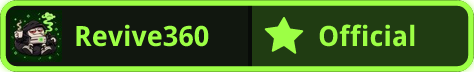
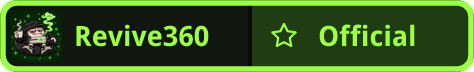
Make the Official star smaller and outlined

Changed region(s): [[0.5316, 0.25, 0.6498, 0.75]]

diff --git a/tests/test_catalog.py b/tests/test_catalog.py
@@ -193,6 +193,24 @@ class CatalogTests(unittest.TestCase):
                     a,b=sorted([luminance(foreground),luminance(panel.attrib['fill'])])
                     self.assertGreaterEqual((b+0.05)/(a+0.05),4.5)
 
+    def test_official_star_is_small_outlined_and_aligned_with_text_baseline(self):
+        svg=badge_svg(fixture('tube360'),TODAY)
+        ns={'s':'http://www.w3.org/2000/svg'}
+        tree=ElementTree.fromstring(svg)
+        star=tree.find('.//s:g[@data-icon="official"]/s:path',ns)
+        self.assertEqual(star.attrib['fill'],'none')
+        self.assertLessEqual(float(star.attrib['stroke-width']),1.25)
+        image=Image.open(io.BytesIO(png(svg))).convert('RGB')
+        # The center remains the panel color, rather than a solid neon mass.
+        self.assertEqual(image.getpixel((284,36)),(32,60,18))
+        points=[(x,y) for y in range(12,56) for x in range(264,304)
+                if (lambda color:color[0]>120 and color[1]>200 and color[2]<120)(image.getpixel((x,y)))]
+        self.assertTrue(points)
+        self.assertLessEqual(max(x for x,y in points)-min(x for x,y in points)+1,27)
+        self.assertLessEqual(max(y for x,y in points)-min(y for x,y in points)+1,26)
+        baseline=float(tree.findall('.//s:text',ns)[-1].attrib['y'])
+        self.assertLessEqual(abs(max(y for x,y in points)/2-baseline),1)
+
     def test_snippet_alts_follow_states_and_the_requested_snapshot_date(self):
         for slug,word in [('tube360','Official'),('sample-reviewed','Reviewed v1.2.3'),('sample-unreviewed','Outdated v1.2.3'),('sample-expired','Expired'),('sample-revoked','Revoked')]:
             self.assertIn(f'[![Revive360 {word}]',snippet(fixture(slug),as_of=TODAY))

diff --git a/catalog/badges.py b/catalog/badges.py
@@ -42,7 +42,7 @@ def compact_label(record: dict, state: str) -> tuple[str, str]:
 
 def state_icon(kind: str, x: float, ink: str, background: str) -> str:
     paths = {
-        "official": '<path d="M0-9l2.8 5.7 6.3.9-4.6 4.5 1.1 6.3L0 4.4l-5.6 3 1.1-6.3-4.6-4.5 6.3-.9z"/>',
+        "official": '<path d="M0-6l1.8 3.6 4 .6-2.9 2.8.7 4-3.6-1.9-3.6 1.9.7-4-2.9-2.8 4-.6z" fill="none" stroke-width="1.1"/>',
         "reviewed": '<path d="M-7 0l4.5 4.5L7-6" fill="none" stroke-width="2.8"/>',
         "outdated": '<path d="M0-9L9 7H-9z" stroke-width="1.3"/>'
                     f'<path d="M0-3v4" stroke="{background}" stroke-width="2"/>'
